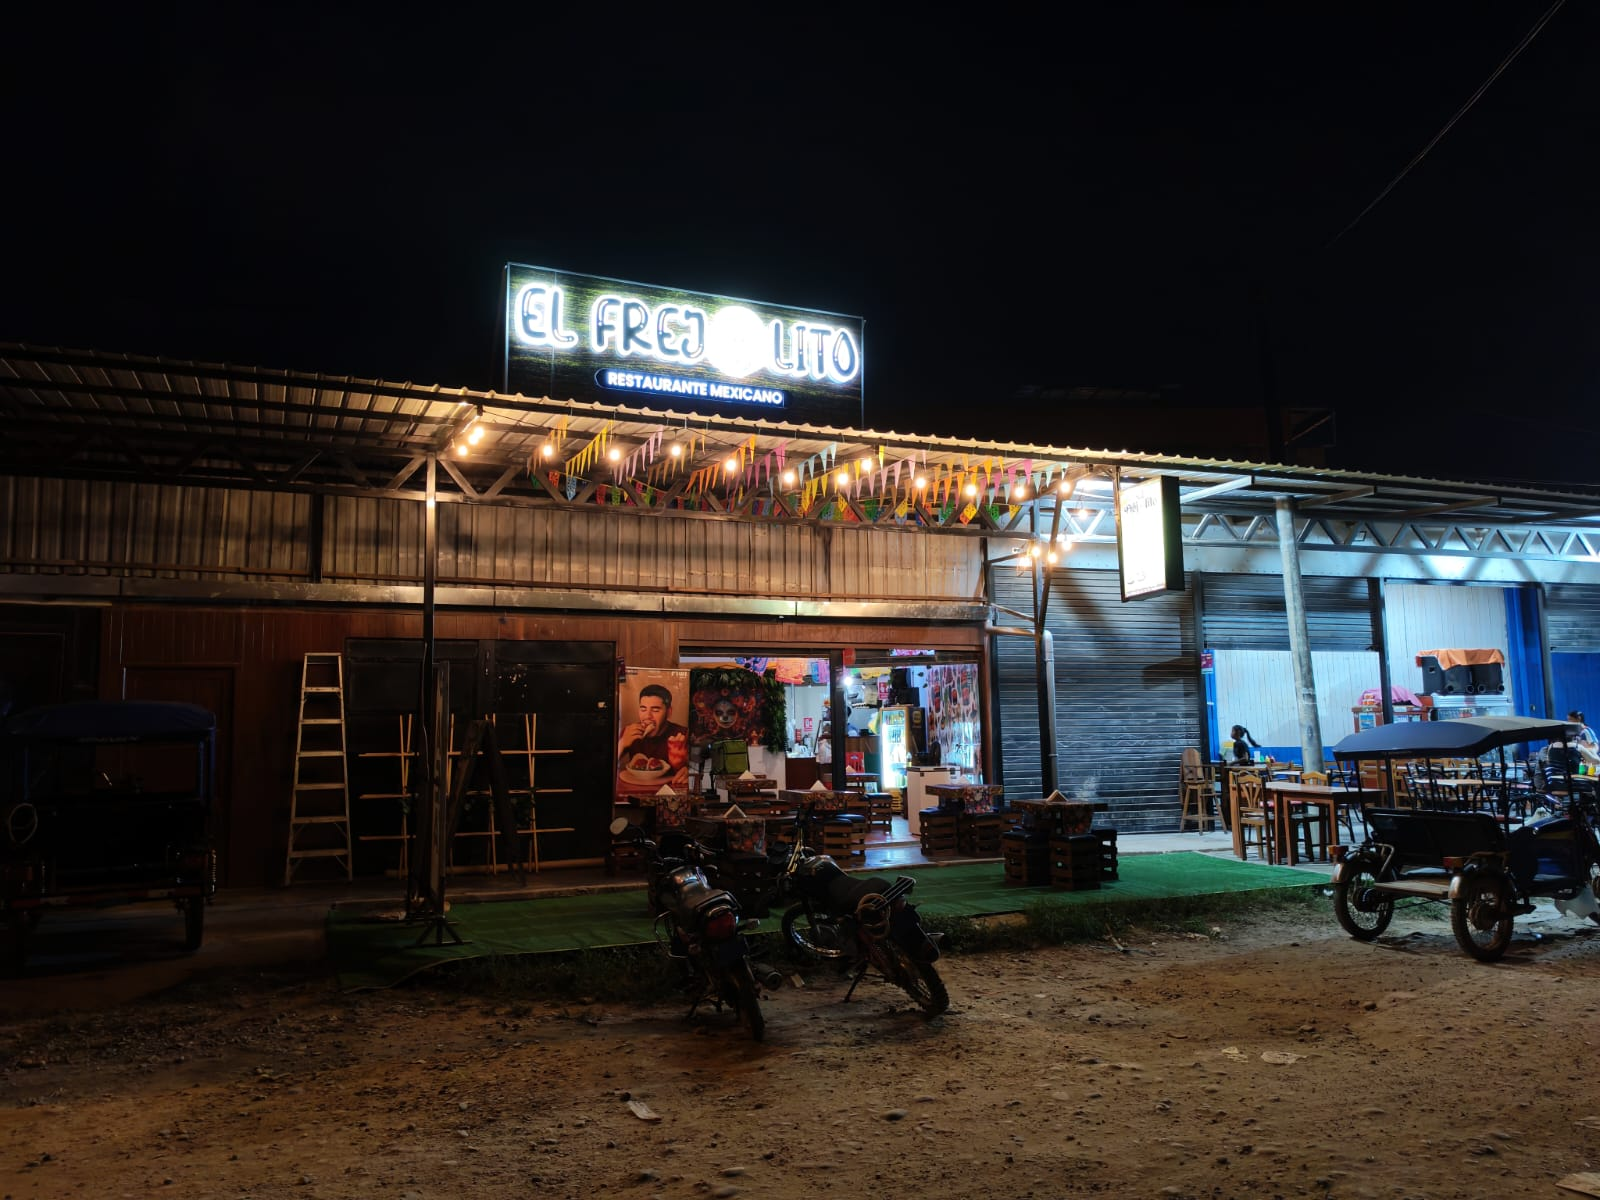
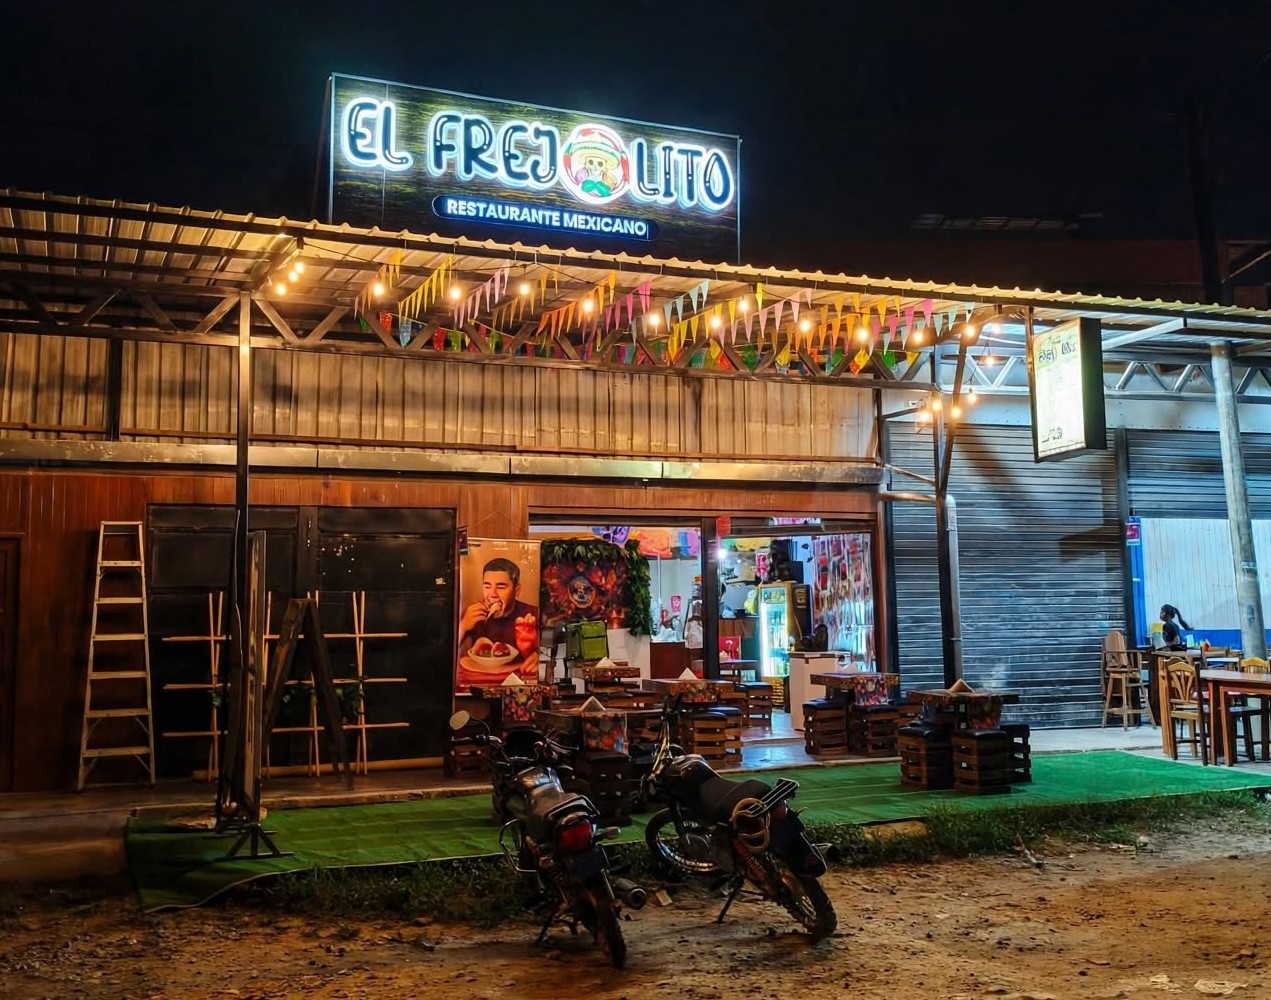
feat(nav): agrega menu hamburguesa movil y mapa vivo
Menu desplegable solo en movil con X animada, cierre con Escape y links de 44px. Quita pill del nav. Integra mapa de Google en Visitanos, fondo fantasma en carta y fotos nuevas de platos.

diff --git a/index.html b/index.html
@@ -8,7 +8,7 @@
 <link rel="preconnect" href="https://fonts.googleapis.com"><link rel="preconnect" href="https://fonts.gstatic.com" crossorigin>
 <link rel="preconnect" href="https://cdnjs.cloudflare.com"><link rel="preconnect" href="https://unpkg.com">
 <link rel="icon" type="image/webp" href="./img/webp/logo.webp"/>
-<link rel="preload" as="image" imagesrcset="./img/webp/local-800.webp 800w, ./img/webp/local.webp 1600w" imagesizes="100vw" fetchpriority="high"/>
+<link rel="preload" as="image" imagesrcset="./img/webp/local-800.webp 800w, ./img/webp/local.webp 1271w" imagesizes="100vw" fetchpriority="high"/>
 <link href="https://fonts.googleapis.com/css2?family=Rye&family=Lilita+One&family=Plus+Jakarta+Sans:wght@400;500;600;700;800&display=swap" rel="stylesheet">
 <script src="https://cdn.tailwindcss.com"></script>
 <script>
@@ -48,6 +48,17 @@ tailwind.config = {
 <a href="#opiniones" class="hover:text-crema">Opiniones</a>
 <a href="#visitanos" class="hover:text-crema">Visítanos</a>
 </nav>
+<button id="menuBtn" class="md:hidden grid place-items-center w-11 h-11 -mr-2 rounded-full" aria-expanded="false" aria-controls="mobileMenu" aria-label="Abrir menú"><span aria-hidden="true"><span></span><span></span><span></span></span></button>
+</div>
+</div>
+<div id="mobileMenu" class="md:hidden glass border-b border-white/10" hidden>
+<div><nav class="px-5 py-3 flex flex-col" aria-label="Móvil">
+<a href="#la-tienda" class="font-display text-xl py-2.5 min-h-[44px] flex items-center border-b border-white/5">Tienda</a>
+<a href="#platos" class="font-display text-xl py-2.5 min-h-[44px] flex items-center border-b border-white/5">Platos</a>
+<a href="#carta" class="font-display text-xl py-2.5 min-h-[44px] flex items-center border-b border-white/5">Carta</a>
+<a href="#opiniones" class="font-display text-xl py-2.5 min-h-[44px] flex items-center border-b border-white/5">Opiniones</a>
+<a href="#visitanos" class="font-display text-xl py-2.5 min-h-[44px] flex items-center">Visítanos</a>
+</nav></div>
 </div>
 </div>
 </header>
@@ -56,7 +67,7 @@ tailwind.config = {
 <!-- HERO fullscreen estilo Arko ScrollWorld -->
 <section class="relative min-h-[100svh] flex flex-col justify-end overflow-hidden">
 <div class="absolute inset-0">
-<img src="./img/webp/local.webp" srcset="./img/webp/local-800.webp 800w, ./img/webp/local.webp 1600w" sizes="100vw" alt="Fachada El Frejolito de noche en Pucallpa" width="1600" height="1200" fetchpriority="high" decoding="async" class="hero-img w-full h-full object-cover"/>
+<img src="./img/webp/local-800.webp" srcset="./img/webp/local-800.webp 800w, ./img/webp/local.webp 1271w" sizes="100vw" alt="Fachada El Frejolito de noche en Pucallpa" width="800" height="629" fetchpriority="high" decoding="async" class="hero-img w-full h-full object-cover object-center sm:object-top"/>
 <div class="absolute inset-0 bg-gradient-to-t from-noche via-noche/70 to-noche/40"></div>
 <div class="absolute inset-0 vignette"></div>
 <div class="absolute inset-0 bg-chamoy/10 mix-blend-overlay"></div>

diff --git a/styles.css b/styles.css
@@ -29,6 +29,14 @@ html.lenis,html.lenis body{height:auto}
 .tab-active{background:var(--chamoy)!important;color:#fff!important;border-color:var(--chamoy)!important}
 .chip{border:1px solid color-mix(in srgb,var(--crema) 16%,transparent)}
 #grid{border-top:1px solid color-mix(in srgb,var(--crema) 12%,transparent)}
+#menuBtn>span>span{display:block;width:22px;height:2px;background:var(--crema);border-radius:2px;transition:transform .3s,opacity .3s}
+#menuBtn>span>span+span{margin-top:5px}
+#menuBtn.open>span>span:first-child{transform:translateY(7px) rotate(45deg)}
+#menuBtn.open>span>span:nth-child(2){opacity:0}
+#menuBtn.open>span>span:last-child{transform:translateY(-7px) rotate(-45deg)}
+#mobileMenu{display:grid;grid-template-rows:0fr;transition:grid-template-rows .35s ease}
+#mobileMenu.open{grid-template-rows:1fr}
+#mobileMenu>div{overflow:hidden;min-height:0}
 a[class*="rounded-full"]:active{transform:scale(.97);transition:transform 100ms ease-out}
 .btn-wa{background:var(--wa);color:var(--noche);border:2px solid transparent;box-shadow:0 10px 40px -8px color-mix(in srgb,var(--wa) 70%,transparent);transition:background .3s,color .3s,border-color .3s,transform .3s}
 .btn-wa:hover{background:transparent;color:var(--wa);border-color:var(--wa)}
@@ -47,4 +55,4 @@ a:focus-visible,button:focus-visible{outline:3px solid var(--mango);outline-offs
 section[id]{scroll-margin-top:80px}
 .text-stroke{-webkit-text-stroke:1px color-mix(in srgb,var(--crema) 35%,transparent);color:transparent}
 @media (prefers-reduced-transparency:reduce){.glass{background:var(--noche);backdrop-filter:none;-webkit-backdrop-filter:none}}
-@media (prefers-reduced-motion:reduce){.marquee-track,.wa-float,.scroll-hint{animation:none}.menu-bg{transition:none}[data-reveal]{opacity:1;transform:none}}
+@media (prefers-reduced-motion:reduce){.marquee-track,.wa-float,.scroll-hint{animation:none}.menu-bg{transition:none}#mobileMenu{transition:none}[data-reveal]{opacity:1;transform:none}}

diff --git a/app.js b/app.js
@@ -87,6 +87,21 @@ try{
 }catch(e){document.querySelectorAll('[data-reveal]').forEach(el=>{el.style.opacity=1;el.style.transform='none'})}
 const nav=document.getElementById('nav');
 addEventListener('scroll',()=>{nav.style.transform='translateY(0)';nav.firstElementChild.style.background = scrollY>40?'color-mix(in srgb,var(--noche) 92%,transparent)':'color-mix(in srgb,var(--carbon) 82%,transparent)'},{passive:true});
+const menuBtn=document.getElementById('menuBtn'),mobileMenu=document.getElementById('mobileMenu');
+function setMenu(open){
+ if(!menuBtn||!mobileMenu) return;
+ menuBtn.classList.toggle('open',open);
+ menuBtn.setAttribute('aria-expanded',open);
+ menuBtn.setAttribute('aria-label',open?'Cerrar menú':'Abrir menú');
+ if(open){mobileMenu.removeAttribute('hidden');requestAnimationFrame(()=>requestAnimationFrame(()=>mobileMenu.classList.add('open')))}
+ else{mobileMenu.classList.remove('open');setTimeout(()=>{if(!mobileMenu.classList.contains('open'))mobileMenu.setAttribute('hidden','')},380)}
+}
+if(menuBtn&&mobileMenu){
+ menuBtn.addEventListener('click',()=>setMenu(menuBtn.getAttribute('aria-expanded')!=='true'));
+ mobileMenu.querySelectorAll('a[href^="#"]').forEach(a=>a.addEventListener('click',()=>setMenu(false)));
+ addEventListener('keydown',e=>{if(e.key==='Escape')setMenu(false)});
+ matchMedia('(min-width:768px)').addEventListener('change',e=>{if(e.matches)setMenu(false)});
+}
 addEventListener('scroll',()=>{const h=document.querySelector('.scroll-hint');if(h){h.style.transition='opacity .4s';h.style.opacity='0';setTimeout(()=>h.remove(),500)}},{passive:true,once:true});
 try{
  const pausables=[...document.querySelectorAll('.marquee-track,.wa-float')];
